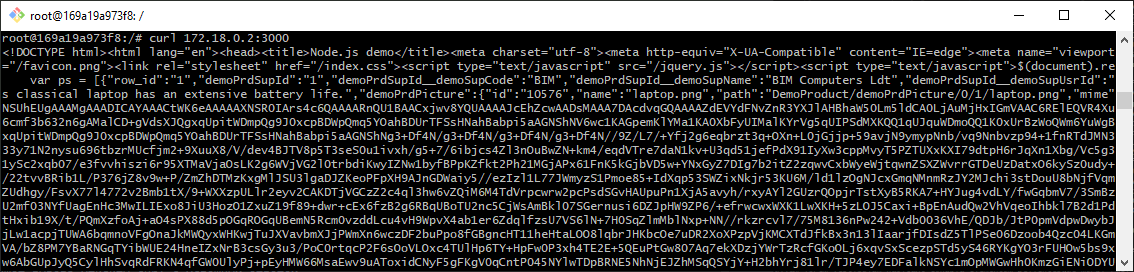
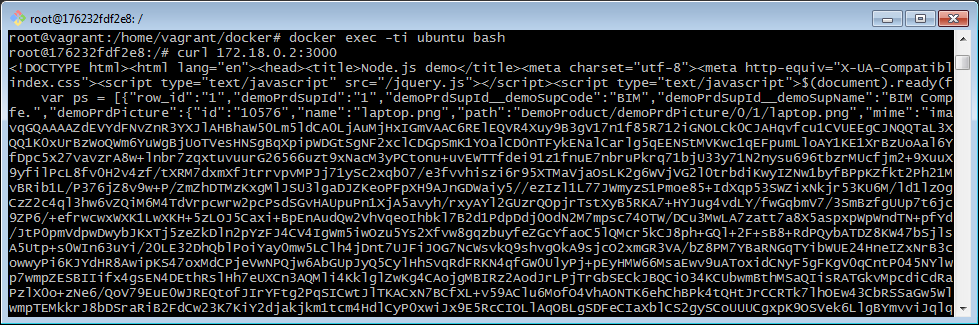
homeWork-05.4 v1

diff --git a/homeWork-05.4/README.md b/homeWork-05.4/README.md
@@ -67,21 +67,86 @@ https://hub.docker.com/r/0dok0/archlinux_ponysay
 
 Для получения зачета, вам необходимо предоставить:
 - Наполнения 2х Dockerfile из задания    
+
 **Ответ:**   
+
+DockerFile для amazoncorretto + Jenkins:
+```text
+FROM amazoncorretto
+LABEL maintainer="Timofey Biryukov"
+LABEL version="1.0"
+
+ADD https://pkg.jenkins.io/redhat-stable/jenkins.repo /etc/yum.repos.d/jenkins.repo
+
+RUN rpm --import https://pkg.jenkins.io/redhat/jenkins.io.key && \
+    yum update -y && \
+    yum install -y jenkins
+
+EXPOSE 8080/tcp
+EXPOSE 50000
+
+USER jenkins
+
+CMD ["-jar", "/usr/lib/jenkins/jenkins.war"]
+ENTRYPOINT ["java"]
+```
+
+DockerFile для ubuntu + Jenkins:
+```text
+FROM ubuntu
+LABEL maintainer="Timofey Biryukov"
+LABEL version="1.0"
+
+ADD https://pkg.jenkins.io/debian-stable/jenkins.io.key /
+
+RUN apt-get update -y && \
+    apt-get install -y gnupg ca-certificates && \
+    apt-key add /jenkins.io.key && \
+    bash -c 'echo deb https://pkg.jenkins.io/debian-stable binary/ > /etc/apt/sources.list.d/jenkins.list' && \
+    apt-get update -y && \
+    apt-get install -y openjdk-8-jdk openjdk-8-jre jenkins
+
+EXPOSE 8080/tcp
+EXPOSE 5000
+
+USER jenkins
+
+WORKDIR "/usr/share/jenkins"
+CMD ["-jar", "jenkins.war"]
+```
+
 
 - Скриншоты логов запущенных вами контейнеров (из командной строки)    
 **Ответ:**   
+![2.3](2.3.gif)
+![2.4](2.4.gif)
 
 - Скриншоты веб-интерфейса Jenkins запущенных вами контейнеров (достаточно 1 скриншота на контейнер)    
 **Ответ:**   
+![2.1](2.1.png)
+![2.2](2.2.png)
 
 - Ссылки на образы в вашем хранилище docker-hub    
 **Ответ:**   
-
+https://hub.docker.com/repository/docker/0dok0/amazon-jenkins
+https://hub.docker.com/repository/docker/0dok0/ubuntu-jenkins
 
 код:
 ```bash
+docker build -t 0dok0/amazon-jenkins:ver1 -f amazon-jenkins .
+docker run -d --name amazon -p 8080:8080 -p 5000:5000 0dok0/amazon-jenkins:ver1
 
+docker build -t 0dok0/ubuntu-jenkins:ver2 -f ubuntu-jenkins .
+docker run -d --name ubuntu -p 8080:8081 -p 5000:5001 0dok0/ubuntu-jenkins:ver2
+
+docker ps
+#CONTAINER ID   IMAGE                       COMMAND                  CREATED         STATUS             PORTS                                                                                             NAMES
+#ed1e8482b69a   0dok0/ubuntu-jenkins:ver2   "java -jar jenkins.w…"   6 seconds ago   Up 5 seconds       0.0.0.0:5001->5001/tcp, :::5001->5001/tcp, 0.0.0.0:8081->8081/tcp, :::8081->8081/tcp              ubuntu
+#01809bf128b5   0dok0/amazon-jenkins:ver1   "java -jar /usr/lib/…"   2 hours ago     Up About an hour   0.0.0.0:5000->5000/tcp, :::5000->5000/tcp, 0.0.0.0:8080->8080/tcp, :::8080->8080/tcp, 50000/tcp   amazon
+
+docker login
+docker push 0dok0/amazon-jenkins:ver1
+docker push 0dok0/ubuntu-jenkins:ver2
 ```
 
 
@@ -110,97 +175,52 @@ https://hub.docker.com/r/0dok0/archlinux_ponysay
 **Ответ:**    
 ```text
 FROM node
+LABEL maintainer="Timofey Biryukov"
+LABEL version="1.0"
+
 ADD https://github.com/simplicitesoftware/nodejs-demo/archive/master.zip /
+
 RUN unzip master.zip && \
     cd /nodejs-demo-master && \
     npm install
-EXPOSE 3000
+
+EXPOSE 3000/tcp
+
 WORKDIR "/nodejs-demo-master"
-CMD ["npm", "start", "0.0.0.0"]
+CMD ["start", "0.0.0.0"]
+ENTRYPOINT ["npm"]
 ```
 
 - Скриншот вывода вызова команды списка docker сетей (docker network cli)    
 **Ответ:**    
-```text
-root@vagrant:/home/vagrant# docker network ls
-NETWORK ID     NAME           DRIVER    SCOPE
-1e653389a6d5   bridge         bridge    local
-bb96adaef5ae   host           host      local
-65fac76d2be4   node_network   bridge    local
-55601b752449   none           null      local
-```
-```text
-root@vagrant:/home/vagrant# docker network inspect node_network
-[
-    {
-        "Name": "node_network",
[1 lines of base64/hex data omitted]
-        "Created": "2021-04-18T18:07:36.299704556Z",
-        "Scope": "local",
-        "Driver": "bridge",
-        "EnableIPv6": false,
-        "IPAM": {
-            "Driver": "default",
-            "Options": {},
-            "Config": [
-                {
-                    "Subnet": "172.18.0.0/16",
-                    "Gateway": "172.18.0.1"
-                }
-            ]
-        },
-        "Internal": false,
-        "Attachable": false,
-        "Ingress": false,
-        "ConfigFrom": {
-            "Network": ""
-        },
-        "ConfigOnly": false,
-        "Containers": {
[1 lines of base64/hex data omitted]
-                "Name": "ubuntu",
[1 lines of base64/hex data omitted]
-                "MacAddress": "02:42:ac:12:00:03",
-                "IPv4Address": "172.18.0.3/16",
-                "IPv6Address": ""
-            },
[1 lines of base64/hex data omitted]
-                "Name": "node",
[1 lines of base64/hex data omitted]
-                "MacAddress": "02:42:ac:12:00:02",
-                "IPv4Address": "172.18.0.2/16",
-                "IPv6Address": ""
-            }
-        },
-        "Options": {},
-        "Labels": {}
-    }
-]
-```
+![3](3.png)
 
 - Скриншот вызова утилиты curl с успешным ответом    
 **Ответ:**    
-![3](3.1.png)
-![3](3.2.png)
+![3.1](3.1.png)
+![3.2](3.2.png)
 
 код:
 ```bash
 # создаем image по DockerFile node и запускаем контейнер
 docker build -t 0dok0/node -f node .
-docker run -d -ti --name node --publish=3000:3000 0dok0/node
+docker run -d --name node --publish=3000:3000 0dok0/node
 
 # создаем сеть и подключаем контейнер к сети
-docker network create node_network
-docker network connect node_network node
+docker network create node_net
+docker network connect node_net node
 
 # создаем контейнер ubuntu и тоже подключаем его к сети
-docker run -d -ti -v /home/vagrant/docker:/tmp/docker --name ubuntu ubuntu:18.04 bash
-docker network connect node_network ubuntu
+docker run -d -ti -v /home/vagrant/docker:/tmp/docker --name ubuntu ubuntu bash
+docker network connect node_net ubuntu
 
 # устанавливаем в контейнере curl и проверяем
 docker exec -ti ubuntu bash
 apt-get update
 apt-get install curl
 curl 172.18.0.2:3000
+^D
+docker network ls
+docker network inspect node_net
 ```
 
